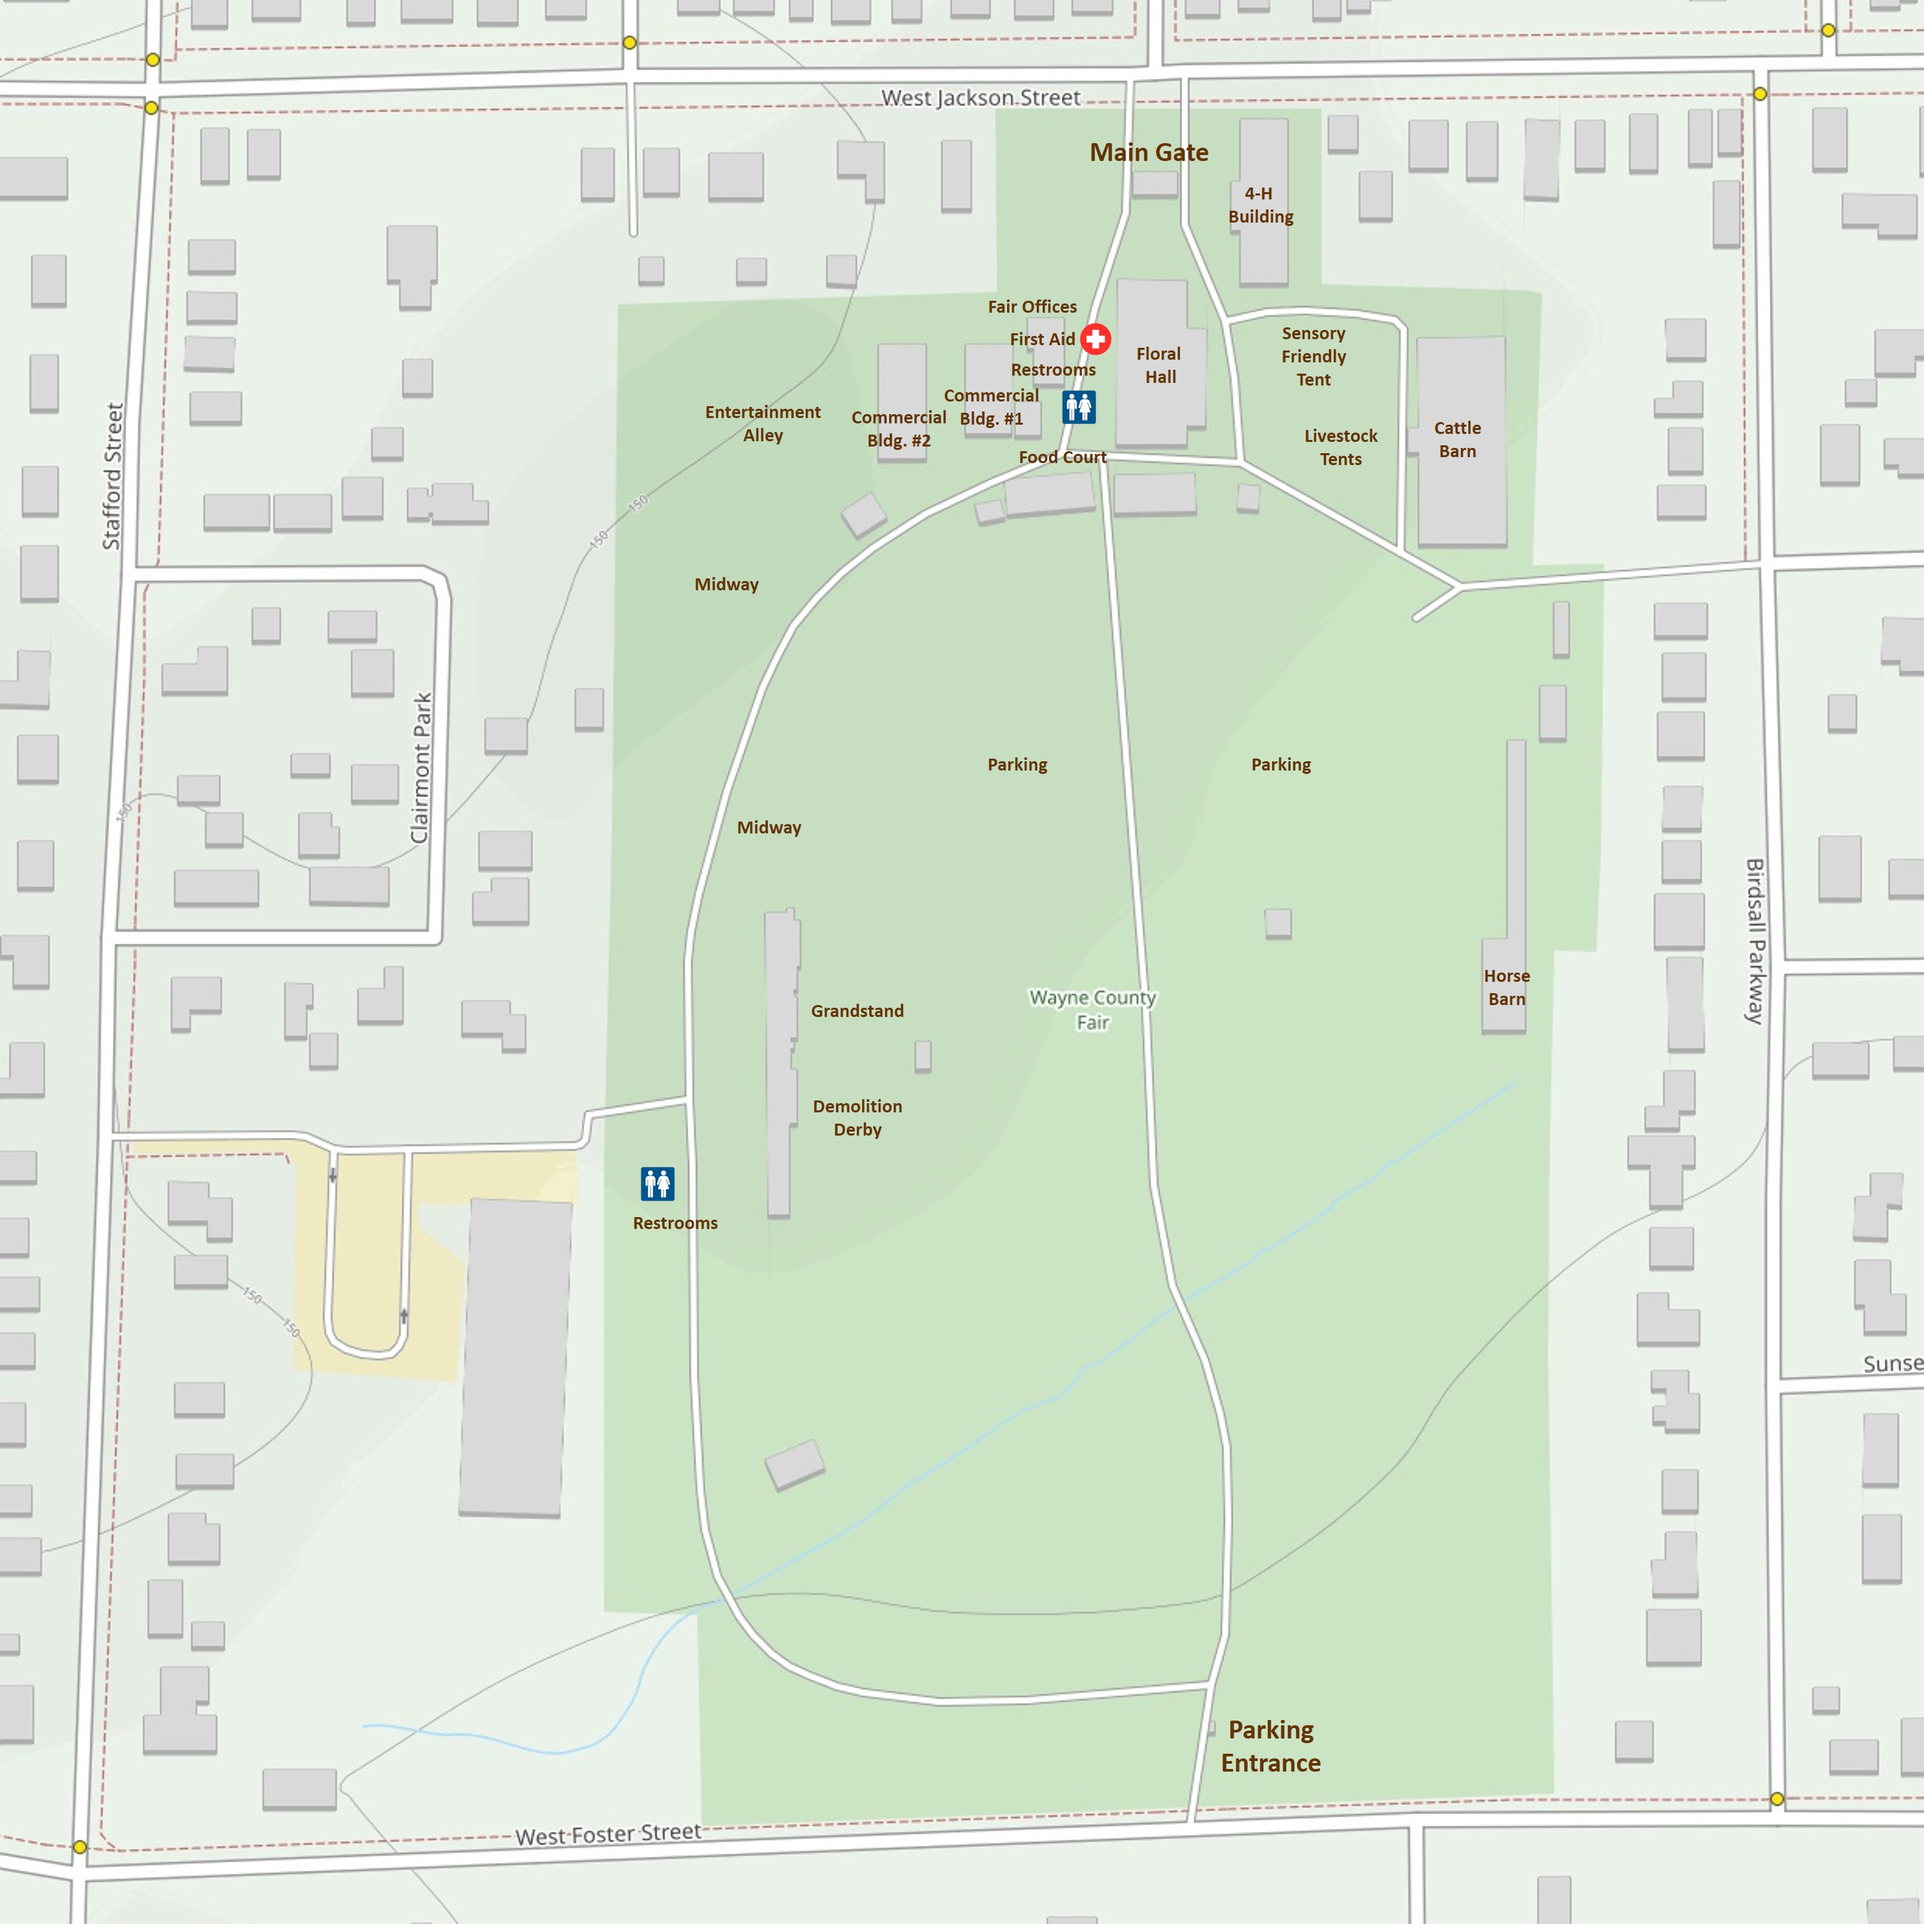
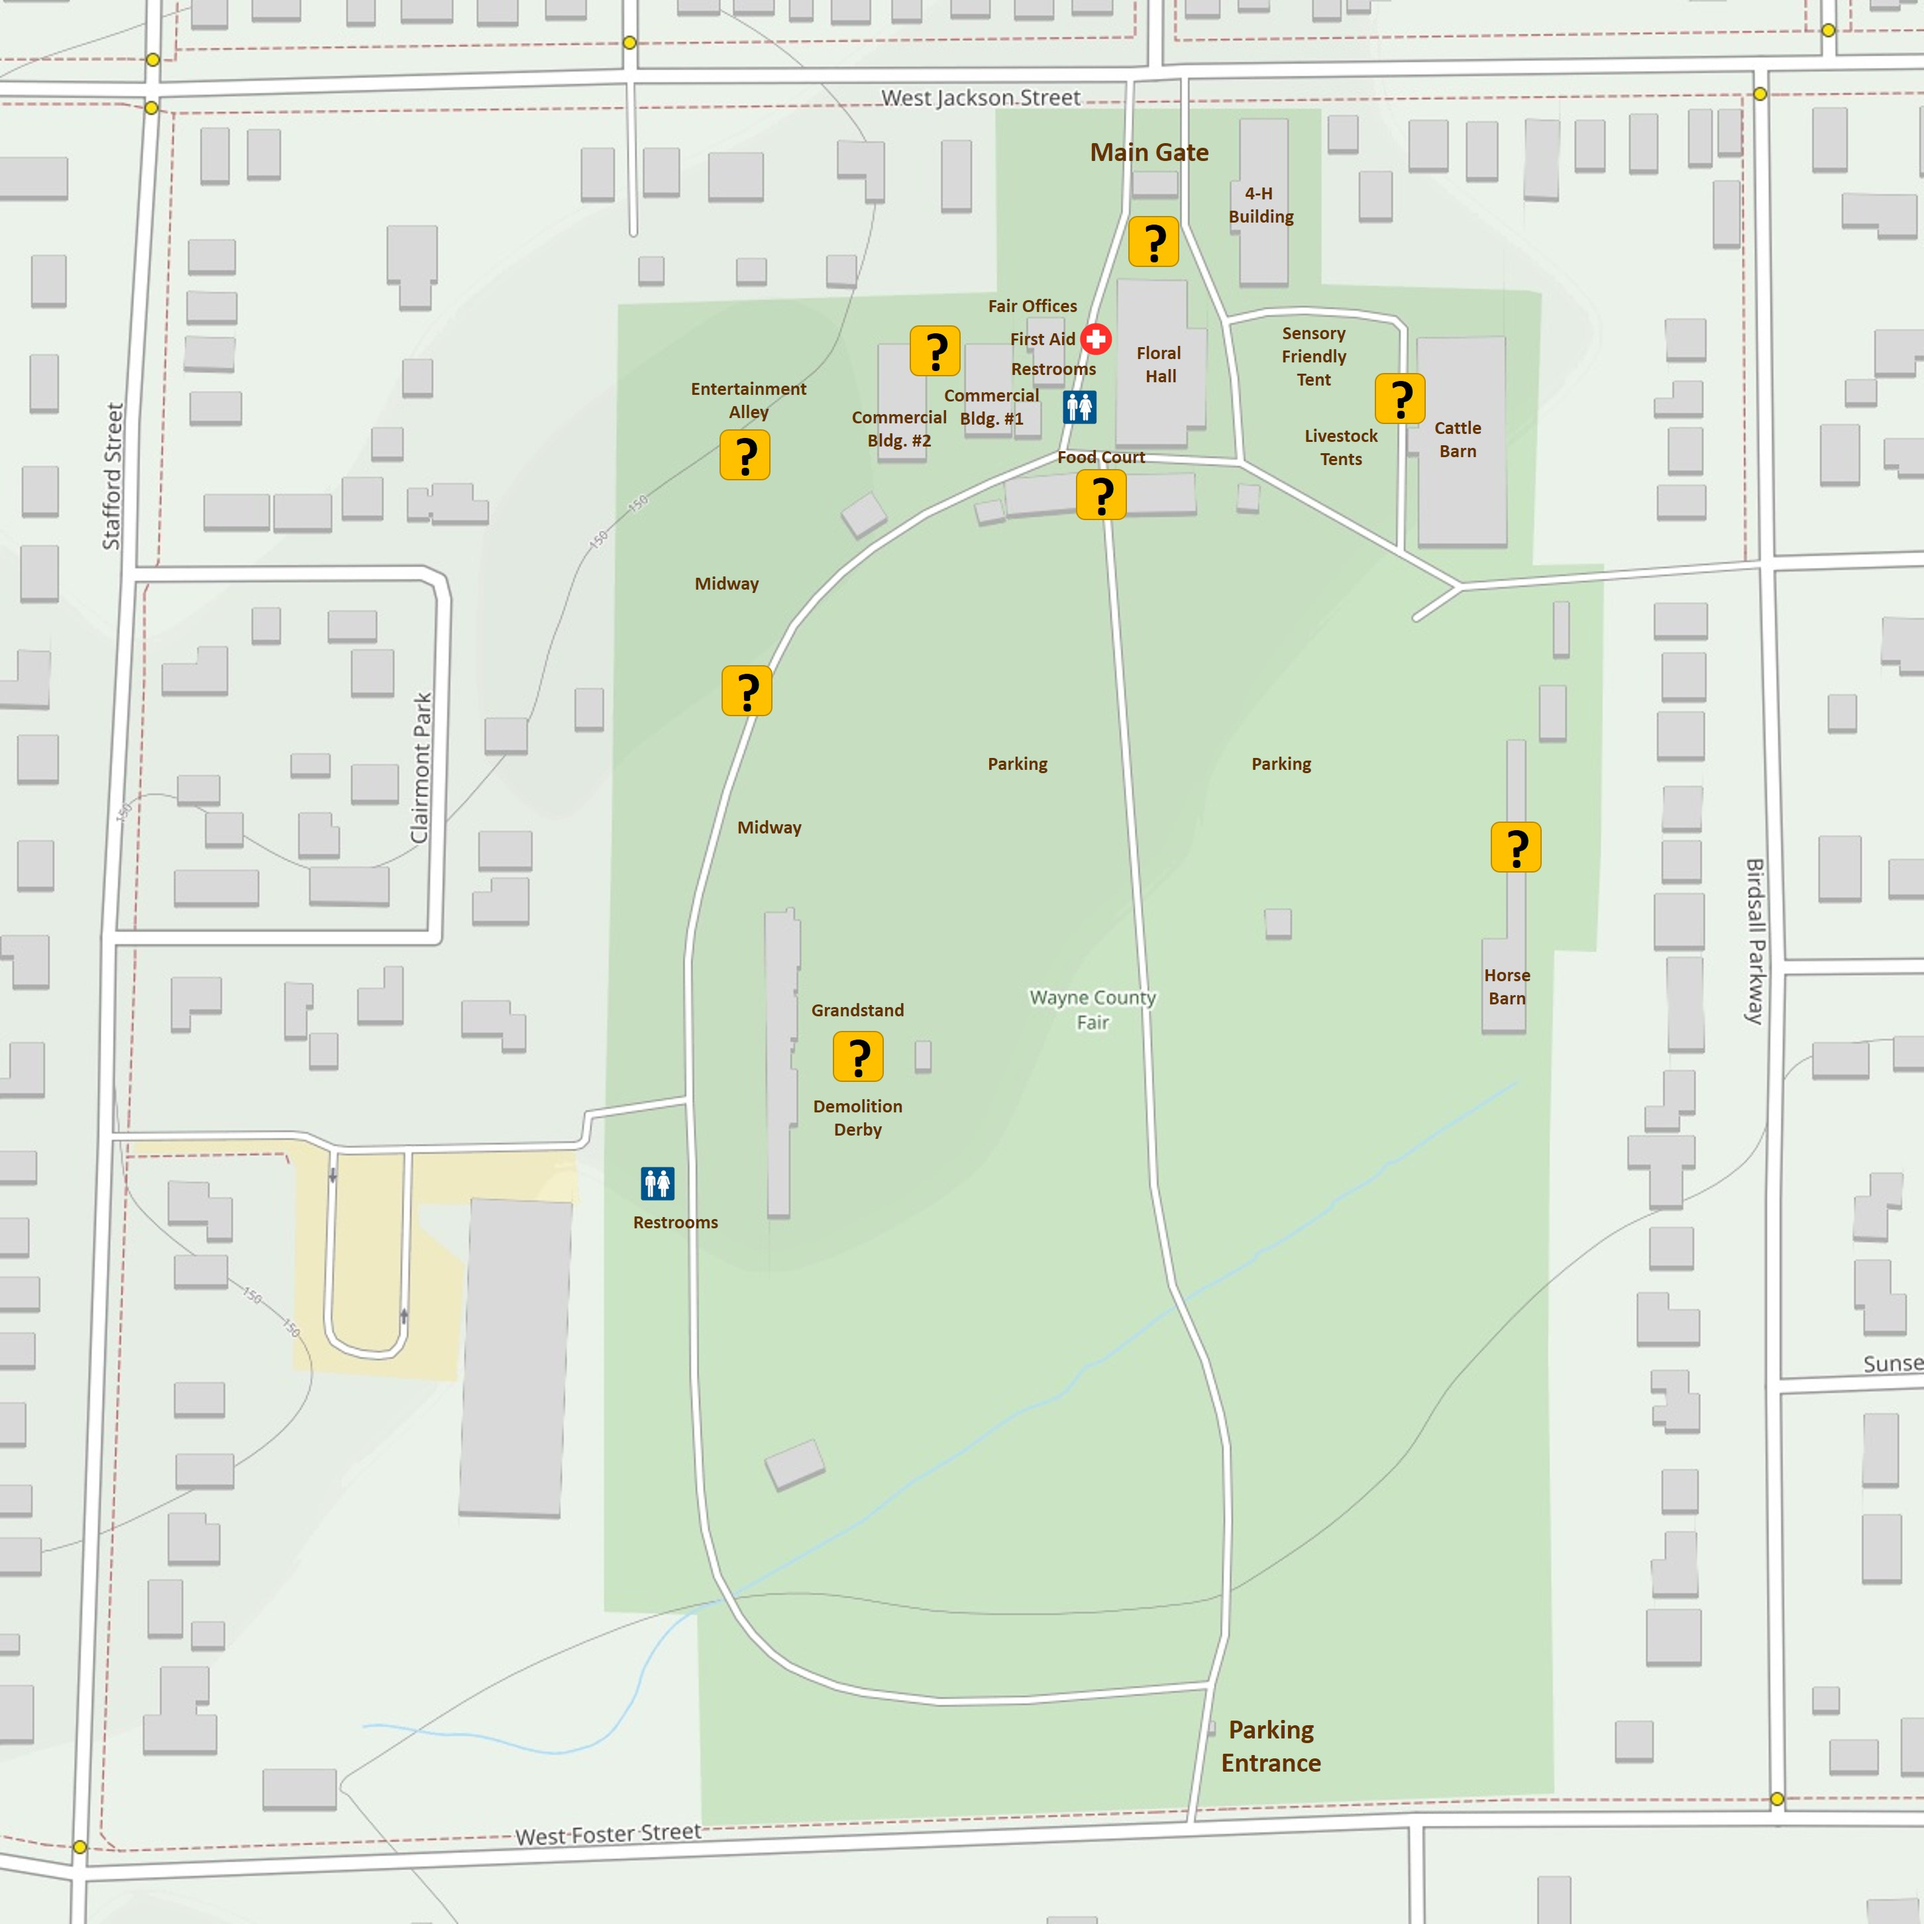
schema improvements, map tap areas of interest

diff --git a/static/app.js b/static/app.js
@@ -2,9 +2,9 @@ if ('serviceWorker' in navigator) {
   navigator.serviceWorker.register('/sw.js').then(reg => {
     console.log("SW registered");
 
-    if (!navigator.serviceWorker.controller) {
-      window.location.reload();
-    }
+//    if (!navigator.serviceWorker.controller) {
+//      window.location.reload();
+//    }
   });
 }
 
@@ -377,6 +377,80 @@ function showMap(){
   }
 
   const mapEl = document.getElementById('map');
+
+// ---------------- POI ZONES ----------------
+const POIS = [
+  { id: "entertainment", left: 32.39, top: 17.61, width: 11.42, height: 9.35, text: "Beer tent, main stage and seating area" },
+  { id: "grandstand", left: 38.58, top: 47.00, width: 12.24, height: 17.46, text: "Bleacher seating for demolition derby and track events" },
+  { id: "midway", left: 33.06, top: 28.87, width: 12.24, height: 16.06, text: "Rides, games and more food" },
+  { id: "food", left: 48.92, top: 23.19, width: 16.74, height: 5.17, text: "Snack, drinks and meals with bench seating" },
+  { id: "entrance", left: 54.60, top: 6.61, width: 11.21, height: 14.77, text: "Flag pole seating area, Floral Hall and 4-H Building" },
+  { id: "commercial", left: 44.89, top: 14.67, width: 8.73, height: 8.11, text: "Two buildings of commercial and organization information" },
+  { id: "agriculture", left: 66.58, top: 16.22, width: 13.07, height: 13.38, text: "Livestock displays, judging and events" },
+  { id: "stable", left: 73.14, top: 32.75, width: 9.81, height: 23.50, text: "Horse stables and track event preparation area" }
+];
+
+// Create invisible clickable zones
+POIS.forEach(poi => {
+  const z = document.createElement('div');
+  z.className = 'zone';
+
+  z.style.left = poi.left + '%';
+  z.style.top = poi.top + '%';
+  z.style.width = poi.width + '%';
+  z.style.height = poi.height + '%';
+
+  z.addEventListener('click', (e) => showPOIPopup(poi, e));
+
+  mapEl.appendChild(z);
+});
+
+// Popup function
+function showPOIPopup(poi, event){
+
+  // Remove any existing popup first
+  const existing = document.querySelector('.poi-popup');
+  if (existing) existing.remove();
+
+  const popup = document.createElement('div');
+  popup.className = 'poi-popup';
+
+  const content = document.createElement('div');
+  content.className = 'poi-content';
+
+  content.innerHTML = `
+    <h3>${poi.id.toUpperCase()}</h3>
+    <p>${poi.text}</p>
+  `;
+
+  popup.appendChild(content);
+  document.body.appendChild(popup);
+
+  // 👉 Position near tap
+  const x = event.clientX;
+  const y = event.clientY;
+
+  content.style.position = 'absolute';
+  content.style.left = x + 'px';
+  content.style.top = y + 'px';
+  content.style.transform = 'translate(-50%, -110%)'; // above finger
+
+  // 👉 Keep inside screen bounds
+  const rect = content.getBoundingClientRect();
+
+  if (rect.left < 10) content.style.left = '10px';
+  if (rect.right > window.innerWidth - 10)
+    content.style.left = (window.innerWidth - rect.width - 10) + 'px';
+
+  if (rect.top < 10)
+    content.style.top = (y + 20) + 'px'; // flip below if too high
+
+  // 👉 Tap anywhere closes
+  popup.addEventListener('click', () => popup.remove());
+
+  // 👉 Prevent immediate close when tapping content
+  content.addEventListener('click', (e) => e.stopPropagation());
+}
 
   let pin = document.createElement('div');
   pin.className = 'pin';

diff --git a/sw.js b/sw.js
@@ -7,26 +7,40 @@ self.addEventListener('activate', event => {
 });
 
 self.addEventListener('push', function(event) {
+  console.log("SW VERSION TEST 2");
   console.log("PUSH RECEIVED", event);
 
-  let title = "Fair Reminder";
-  let body = "Event starting soon";
+  event.waitUntil((async () => {
 
-  if (event.data) {
+    let title = "Fair Reminder";
+    let body = "Event starting soon";
+
     try {
-      const data = event.data.json();
-      title = data.title || title;
-      body = data.body || body;
-    } catch (e) {
-      // ✅ Handle plain text payload (your current case)
-      body = event.data.text();
-    }
-  }
+      if (event.data) {
+        try {
+          const data = event.data.json();
+          title = data.title || title;
+          body = data.body || body;
+        } catch (e) {
+          body = event.data.text();
+        }
+      }
 
-  event.waitUntil(
-    self.registration.showNotification(title, {
-      body: body,
-      icon: '/static/logo.png'
-    })
-  );
+      console.log("SHOWING NOTIFICATION:", title, body);
+
+      await self.registration.showNotification(title, {
+        body: body,
+        icon: '/static/logo.png',
+        vibrate: [200, 100, 200, 100, 200],
+        tag: "fair-alert",
+        renotify: true
+      });
+
+      console.log("NOTIFICATION SHOWN");
+
+    } catch (err) {
+      console.error("SW ERROR:", err);
+    }
+
+  })());
 });

diff --git a/static/styles.css b/static/styles.css
@@ -46,7 +46,8 @@ button:active {
 }
 
 .zone{
- position:absolute;border:2px solid rgba(255,255,255,0.6);
+  position: absolute;
+  background: rgba(0,0,0,0); /* invisible */
 }
 
 /* horizontal button groups */
@@ -132,3 +133,41 @@ button:active {
   opacity: 0.5;
   cursor: not-allowed;
 }
+
+.poi-popup{
+  position: fixed;
+  top: 0;
+  left: 0;
+  width: 100%;
+  height: 100%;
+  background: rgba(0,0,0,0.2);
+
+  z-index: 999;
+}
+
+.poi-content{
+  position: absolute;   /* ✅ REQUIRED for tap positioning */
+
+  background: white;
+  padding: 4px;
+  border-radius: 4px;
+
+  max-width: 90px;      /* ✅ better for small popups */
+  width: auto;          /* ✅ prevents stretching across screen */
+
+  box-shadow: 0 3px 8px rgba(0,0,0,0.3);
+}
+
+@keyframes popIn{
+  from { transform: translate(-50%, -100%) scale(0.9); opacity: 0; }
+  to   { transform: translate(-50%, -110%) scale(1); opacity: 1; }
+}
+
+.poi-content h3{
+  font-size: 0.4em;
+}
+
+.poi-content p{
+  font-size: 0.4em;
+}
+

diff --git a/models.py b/models.py
@@ -2,6 +2,53 @@
 from database import get_db
 conn=get_db();c=conn.cursor()
 
+c.execute(
+    "CREATE TABLE IF NOT EXISTS commercial (name TEXT,description TEXT,location TEXT)")
+comm=[
+    ("Gutter Guardian","Home improvement experts","Commercial Building 1"),
+    ("Mobile Mart","Cell phones and accessories","Commercial Building 2"),
+    ("Wayne Landscaping Inc.","Landscaping and expert care","Commercial Building 2")
+]
+for x in comm: c.execute(
+    "INSERT INTO commercial VALUES (?,?,?)",x)
+
+c.execute(
+    "CREATE TABLE IF NOT EXISTS organization (name TEXT,description TEXT,location TEXT)")
+org=[
+    ("Historic Palmyra","Local history exhibits","Floral Hall"),
+    ("Wayne County Sheriff","Home safety information","Floral Hall"),
+    ("American Legion Post 120","Veteran services organization","Floral Hall")
+]
+for x in org: c.execute(
+    "INSERT INTO organization VALUES (?,?,?)",x)
+
+c.execute("""
+    CREATE TABLE IF NOT EXISTS calendar (
+        id INTEGER PRIMARY KEY,
+        category TEXT,
+        title TEXT,
+        description TEXT,
+        location TEXT,
+        price TEXT,
+        start_time TEXT, 
+        end_time TEXT)
+""")
+cal = [
+    ("general","Opening Ceremony","Honor guard and announcements","Main Gate","Free","2026-08-10 10:00", "2026-08-10 10:30"),
+    ("general","Kids Show","Magic and fun","Floral Hall","Free","2026-08-10 11:00", "2026-08-10 12:00"),
+    ("contest","Tractor Pull","Heavy equipment","Grandstand","$5.00","2026-08-10 13:00", "2026-08-10 15:00"),
+    ("general","Petting Zoo","Family fun","Sensory Tent","Free","2026-08-10 15:00", "2026-08-10 16:30"),
+    ("music","Live Music","The Haymakers Country Band","Entertainment Ally","Free","2026-08-10 17:00", "2026-08-10 19:00"),
+    ("music","Rock Night","Classic rock","Entertainment Alley", "Free","2026-08-10 19:30", "2026-08-10 21:30"),
+    ("general","Fireworks","Night show","Fairgrounds","Free","2026-08-11 22:00", "2026-08-11 22:30")
+]
+for e in cal: c.execute(
+    "INSERT INTO calendar (category,title,description,location,price,start_time,end_time) VALUES (?,?,?,?,?,?,?)",e)
+
+
+
+
+
 c.execute("CREATE TABLE IF NOT EXISTS events (id INTEGER PRIMARY KEY,title TEXT,description TEXT,location TEXT,start_time TEXT, end_time text)")
 c.execute("CREATE TABLE IF NOT EXISTS food (name TEXT,description TEXT,location TEXT)")
 c.execute("CREATE TABLE IF NOT EXISTS music (name TEXT,description TEXT,location TEXT,datetime TEXT)")
